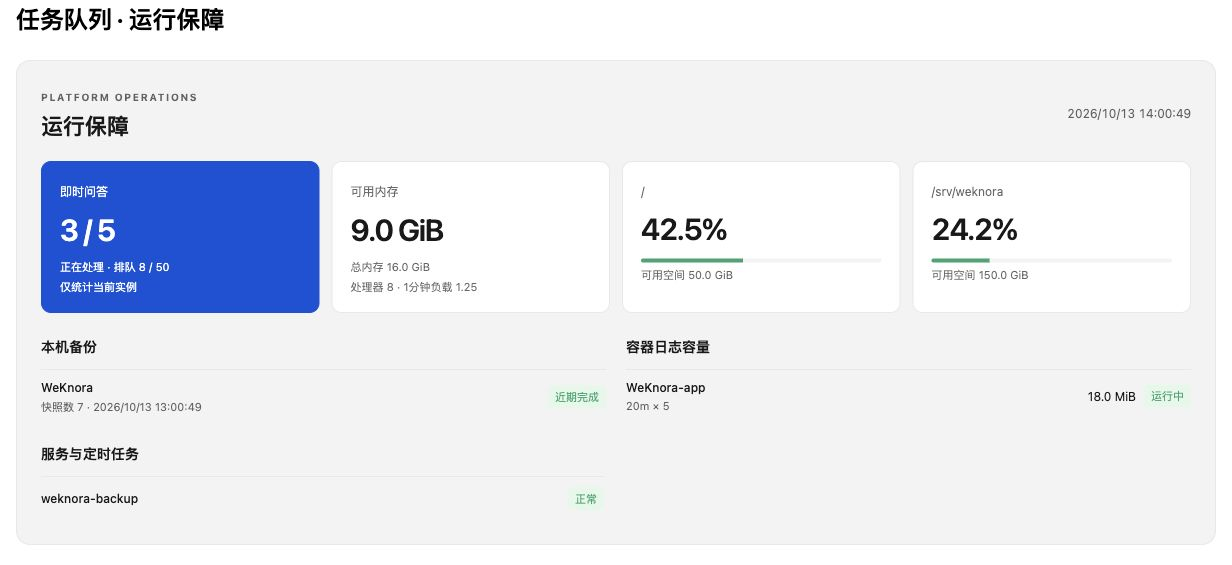
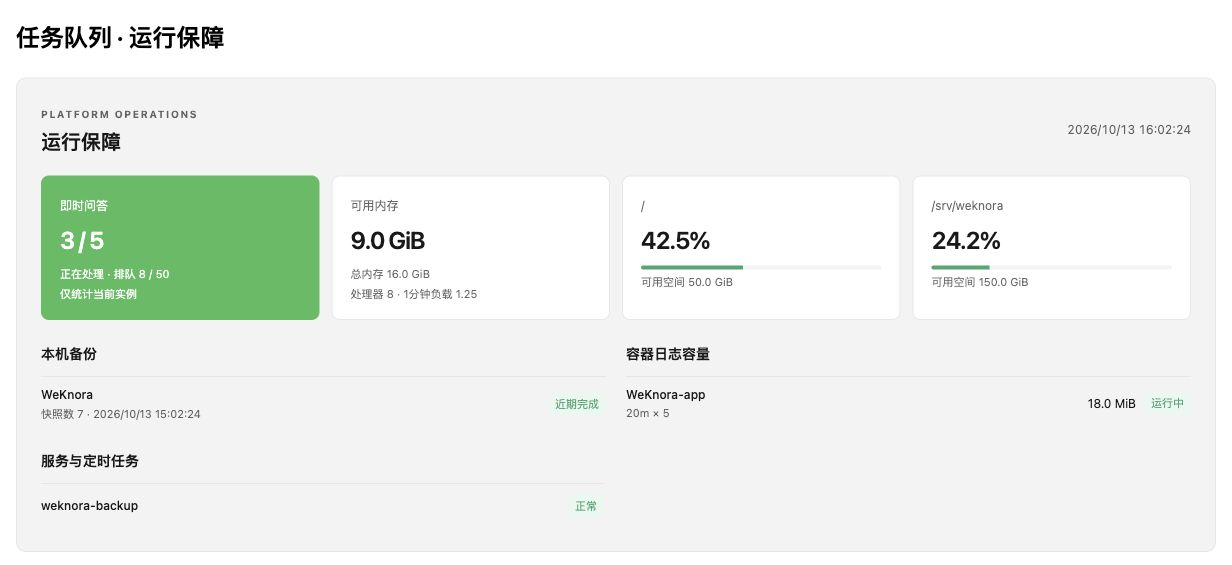
fix(system): satisfy runtime overview CI style checks
Use the project typography tokens in the operations overview and refresh its
synthetic preview. Apply the configured Go formatting, line length and exported
API documentation rules; explicitly discard close errors for read-only samples.

Validation: golangci-lint v2.12.2 against the full PR Go patch for changed packages,
focused Go race tests and Swagger contracts; full frontend test suite
(1499 passed, 1 skipped), type-check and production build. No check configuration
changes, scheduling changes or production deployment.

diff --git a/frontend/src/views/system/OperationsOverview.vue b/frontend/src/views/system/OperationsOverview.vue
@@ -112,29 +112,29 @@ function serviceState(service: NonNullable<OperationsStatus['services']>[number]
   color: var(--td-text-color-primary);
 }
 .operations-header { display: flex; justify-content: space-between; align-items: center; gap: 16px; margin-bottom: 20px; }
-.eyebrow { font-size: 10px; letter-spacing: .16em; color: var(--td-text-color-secondary); font-weight: 700; }
-h3 { margin: 6px 0 0; font-size: 22px; font-weight: 600; }
-h4 { margin: 0 0 12px; font-size: 14px; }
-.sample { font-size: 12px; color: var(--td-text-color-secondary); font-variant-numeric: tabular-nums; }
+.eyebrow { font-size: var(--app-text-2xs); letter-spacing: .16em; color: var(--td-text-color-secondary); font-weight: 700; }
+h3 { margin: 6px 0 0; font-size: var(--app-text-3xl); font-weight: 600; }
+h4 { margin: 0 0 12px; font-size: var(--app-text-base); }
+.sample { font-size: var(--app-text-sm); color: var(--td-text-color-secondary); font-variant-numeric: tabular-nums; }
 .capacity-grid { display: grid; grid-template-columns: repeat(4, minmax(0, 1fr)); gap: 12px; }
 .capacity { padding: 18px; background: var(--td-bg-color-container); border: 1px solid var(--td-component-stroke); border-radius: var(--app-radius-md, 10px); }
-.capacity > span { font-size: 12px; color: var(--td-text-color-secondary); }
-.capacity strong { display: block; margin: 12px 0; font-size: 30px; font-weight: 600; letter-spacing: -.04em; font-variant-numeric: tabular-nums; }
-.capacity p { margin: 5px 0 0; font-size: 11px; color: var(--td-text-color-secondary); }
+.capacity > span { font-size: var(--app-text-sm); color: var(--td-text-color-secondary); }
+.capacity strong { display: block; margin: 12px 0; font-size: var(--app-text-4xl); font-weight: 600; letter-spacing: -.04em; font-variant-numeric: tabular-nums; }
+.capacity p { margin: 5px 0 0; font-size: var(--app-text-xs); color: var(--td-text-color-secondary); }
 .primary { background: var(--td-brand-color); border-color: var(--td-brand-color); color: var(--td-text-color-anti); }
 .primary > span, .primary p { color: var(--td-text-color-anti); }
 .meter { height: 4px; background: var(--td-bg-color-secondarycontainer); border-radius: 3px; overflow: hidden; }
 .meter i { display: block; height: 100%; background: var(--td-success-color); }
-.notice { margin: 16px 0 0; font-size: 13px; color: var(--td-text-color-secondary); }
+.notice { margin: 16px 0 0; font-size: var(--app-text-md); color: var(--td-text-color-secondary); }
 .warning { color: var(--td-warning-color); }
 .capacity.warning .meter i { background: var(--td-warning-color); }
 .log-values { display: flex; align-items: center; gap: 8px; }
 .details-grid { display: grid; grid-template-columns: 1fr 1fr; gap: 20px; margin-top: 24px; }
 .details-grid > section { min-width: 0; }
-.detail-row { display: flex; justify-content: space-between; align-items: center; gap: 12px; padding: 10px 0; border-top: 1px solid var(--td-component-stroke); font-size: 12px; }
+.detail-row { display: flex; justify-content: space-between; align-items: center; gap: 12px; padding: 10px 0; border-top: 1px solid var(--td-component-stroke); font-size: var(--app-text-sm); }
 .detail-row b { font-weight: 500; overflow-wrap: anywhere; }
-.detail-row small { display: block; margin-top: 5px; color: var(--td-text-color-secondary); font-size: 11px; }
-.badge { flex-shrink: 0; padding: 4px 7px; background: var(--td-success-color-light); border-radius: 4px; color: var(--td-success-color); font-size: 11px; }
+.detail-row small { display: block; margin-top: 5px; color: var(--td-text-color-secondary); font-size: var(--app-text-xs); }
+.badge { flex-shrink: 0; padding: 4px 7px; background: var(--td-success-color-light); border-radius: 4px; color: var(--td-success-color); font-size: var(--app-text-xs); }
 .badge.warning { background: var(--td-warning-color-light); color: var(--td-warning-color); }
 .service-section { grid-column: 1 / -1; }
 .service-grid { display: grid; grid-template-columns: 1fr 1fr; gap: 0 24px; }

diff --git a/internal/handler/operations_status_test.go b/internal/handler/operations_status_test.go
@@ -3,8 +3,6 @@ package handler
 import (
 	"encoding/json"
 	"fmt"
-	"github.com/Tencent/WeKnora/internal/im"
-	"github.com/gin-gonic/gin"
 	"net/http"
 	"net/http/httptest"
 	"os"
@@ -12,6 +10,9 @@ import (
 	"strings"
 	"testing"
 	"time"
+
+	"github.com/Tencent/WeKnora/internal/im"
+	"github.com/gin-gonic/gin"
 )
 
 func TestOperationsStatusUnknownAndStale(t *testing.T) {
@@ -20,22 +21,29 @@ func TestOperationsStatusUnknownAndStale(t *testing.T) {
 	if readOperationsStatus(p, now).Available {
 		t.Fatal("missing sample must be unknown")
 	}
-	for _, bad := range []string{`{}`, `{"collected_at":3000}`, `broken`, `{"collected_at":1900,"host":{"cpu_count":"bad"}}`, `{"collected_at":1900,"host":{"memory_total_bytes":-1}}`, strings.Repeat("x", 128*1024+1)} {
-		if err := os.WriteFile(p, []byte(bad), 0600); err != nil {
+	for _, bad := range []string{
+		`{}`,
+		`{"collected_at":3000}`,
+		`broken`,
+		`{"collected_at":1900,"host":{"cpu_count":"bad"}}`,
+		`{"collected_at":1900,"host":{"memory_total_bytes":-1}}`,
+		strings.Repeat("x", 128*1024+1),
+	} {
+		if err := os.WriteFile(p, []byte(bad), 0o600); err != nil {
 			t.Fatal(err)
 		}
 		if readOperationsStatus(p, now).Available {
 			t.Fatal("invalid sample must be unknown")
 		}
 	}
-	if err := os.WriteFile(p, []byte(`{"collected_at":1300,"disks":[]}`), 0600); err != nil {
+	if err := os.WriteFile(p, []byte(`{"collected_at":1300,"disks":[]}`), 0o600); err != nil {
 		t.Fatal(err)
 	}
 	s := readOperationsStatus(p, now)
 	if !s.Available || !s.Stale {
 		t.Fatal("old collector sample must be visibly stale")
 	}
-	if err := os.WriteFile(p, []byte(`{"collected_at":1900,"disks":[]}`), 0600); err != nil {
+	if err := os.WriteFile(p, []byte(`{"collected_at":1900,"disks":[]}`), 0o600); err != nil {
 		t.Fatal(err)
 	}
 	s = readOperationsStatus(p, now)
@@ -57,11 +65,15 @@ func TestGetRuntimeQueuesIncludesOperationsWithoutAsynq(t *testing.T) {
 	gin.SetMode(gin.TestMode)
 	path := filepath.Join(t.TempDir(), "status.json")
 	sample := fmt.Sprintf(`{"collected_at":%d,"host":{"cpu_count":2},"secret":"not exported"}`, time.Now().Unix())
-	if err := os.WriteFile(path, []byte(sample), 0600); err != nil {
+	if err := os.WriteFile(path, []byte(sample), 0o600); err != nil {
 		t.Fatal(err)
 	}
 	t.Setenv("WEKNORA_OPERATIONS_STATUS_FILE", path)
-	h := &SystemHandler{imRuntime: func() im.RuntimeStatus { return im.RuntimeStatus{Available: true, Workers: 5, Pending: 2, Active: 1} }}
+	h := &SystemHandler{
+		imRuntime: func() im.RuntimeStatus {
+			return im.RuntimeStatus{Available: true, Workers: 5, Pending: 2, Active: 1}
+		},
+	}
 	recorder := httptest.NewRecorder()
 	ctx, _ := gin.CreateTestContext(recorder)
 	ctx.Request = httptest.NewRequest(http.MethodGet, "/api/v1/system/admin/runtime/queues", nil)
@@ -70,7 +82,8 @@ func TestGetRuntimeQueuesIncludesOperationsWithoutAsynq(t *testing.T) {
 	if err := json.Unmarshal(recorder.Body.Bytes(), &result); err != nil {
 		t.Fatal(err)
 	}
-	if recorder.Code != http.StatusOK || result.Available || !result.Operations.Available || result.IM == nil || result.IM.Pending != 2 || result.IM.Workers != 5 {
+	if recorder.Code != http.StatusOK || result.Available || !result.Operations.Available ||
+		result.IM == nil || result.IM.Pending != 2 || result.IM.Workers != 5 {
 		t.Fatalf("unexpected runtime response: %s", recorder.Body.String())
 	}
 	if strings.Contains(recorder.Body.String(), "secret") {

diff --git a/internal/handler/operations_status.go b/internal/handler/operations_status.go
@@ -2,18 +2,22 @@ package handler
 
 import (
 	"encoding/json"
-	"github.com/Tencent/WeKnora/internal/im"
 	"io"
 	"os"
 	"time"
+
+	"github.com/Tencent/WeKnora/internal/im"
 )
 
+// OperationsHost uses optional fields so missing host metrics remain unknown.
 type OperationsHost struct {
 	CPUCount             *int     `json:"cpu_count,omitempty"`
 	Load1m               *float64 `json:"load_1m,omitempty"`
 	MemoryTotalBytes     *uint64  `json:"memory_total_bytes,omitempty"`
 	MemoryAvailableBytes *uint64  `json:"memory_available_bytes,omitempty"`
 }
+
+// OperationsDisk keeps availability explicit to distinguish a missing mount from zero usage.
 type OperationsDisk struct {
 	Name           string   `json:"name"`
 	Available      bool     `json:"available"`
@@ -21,6 +25,8 @@ type OperationsDisk struct {
 	AvailableBytes *uint64  `json:"available_bytes,omitempty"`
 	TotalBytes     *uint64  `json:"total_bytes,omitempty"`
 }
+
+// OperationsBackup separates completion from availability so incomplete snapshots cannot appear healthy.
 type OperationsBackup struct {
 	Name          string `json:"name"`
 	Available     bool   `json:"available"`
@@ -28,6 +34,8 @@ type OperationsBackup struct {
 	CompletedAt   *int64 `json:"completed_at,omitempty"`
 	Stale         bool   `json:"stale"`
 }
+
+// OperationsLog uses optional sizes because remote log drivers may not expose local files.
 type OperationsLog struct {
 	Name     string  `json:"name"`
 	Bytes    *uint64 `json:"bytes,omitempty"`
@@ -36,6 +44,8 @@ type OperationsLog struct {
 	Status   string  `json:"status,omitempty"`
 	Health   string  `json:"health,omitempty"`
 }
+
+// OperationsService distinguishes scheduled jobs from services that must remain active.
 type OperationsService struct {
 	Name            string `json:"name"`
 	Available       bool   `json:"available"`
@@ -70,10 +80,14 @@ func readOperationsStatus(path string, now time.Time) OperationsStatus {
 	if err != nil {
 		return OperationsStatus{}
 	}
-	defer f.Close()
+	defer func() {
+		// Closing a read-only sample cannot affect the already buffered telemetry.
+		_ = f.Close()
+	}()
 	b, err := io.ReadAll(io.LimitReader(f, 128*1024+1))
 	var status OperationsStatus
-	if err != nil || len(b) > 128*1024 || json.Unmarshal(b, &status) != nil || status.CollectedAt <= 0 || status.CollectedAt > now.Unix()+60 {
+	if err != nil || len(b) > 128*1024 || json.Unmarshal(b, &status) != nil ||
+		status.CollectedAt <= 0 || status.CollectedAt > now.Unix()+60 {
 		return OperationsStatus{}
 	}
 	status.Available = true
@@ -81,6 +95,7 @@ func readOperationsStatus(path string, now time.Time) OperationsStatus {
 	return status
 }
 
+// BindIMRuntime connects the independent IM queue to the administrator dashboard.
 func (h *SystemHandler) BindIMRuntime(service *im.Service) {
 	h.imRuntime = service.RuntimeStatus
 }

diff --git a/internal/im/runtime_status.go b/internal/im/runtime_status.go
@@ -11,10 +11,19 @@ type RuntimeStatus struct {
 	TimedOut   int64 `json:"timed_out"`
 }
 
+// RuntimeStatus keeps disabled queues unavailable rather than reporting misleading zero capacity.
 func (s *Service) RuntimeStatus() RuntimeStatus {
 	if s == nil || s.qaQueue == nil {
 		return RuntimeStatus{}
 	}
 	m := s.qaQueue.Metrics()
-	return RuntimeStatus{Available: true, Workers: s.qaQueue.workers, QueueLimit: s.qaQueue.maxSize, Pending: m.Depth, Active: m.ActiveWorkers, Rejected: m.TotalRejected, TimedOut: m.TotalTimeout}
+	return RuntimeStatus{
+		Available:  true,
+		Workers:    s.qaQueue.workers,
+		QueueLimit: s.qaQueue.maxSize,
+		Pending:    m.Depth,
+		Active:     m.ActiveWorkers,
+		Rejected:   m.TotalRejected,
+		TimedOut:   m.TotalTimeout,
+	}
 }

diff --git a/internal/im/runtime_status_test.go b/internal/im/runtime_status_test.go
@@ -19,7 +19,8 @@ func TestRuntimeStatusReportsLocalQueue(t *testing.T) {
 	q.totalRejected.Store(7)
 	q.totalTimeout.Store(11)
 	status := (&Service{qaQueue: q}).RuntimeStatus()
-	if !status.Available || status.Workers != 5 || status.QueueLimit != 50 || status.Pending != 2 || status.Active != 3 || status.Rejected != 7 || status.TimedOut != 11 {
+	if !status.Available || status.Workers != 5 || status.QueueLimit != 50 || status.Pending != 2 ||
+		status.Active != 3 || status.Rejected != 7 || status.TimedOut != 11 {
 		t.Fatalf("unexpected local queue metrics: %+v", status)
 	}
 }
